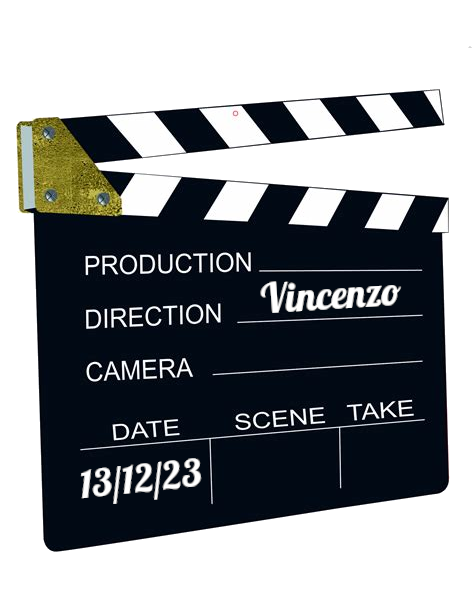
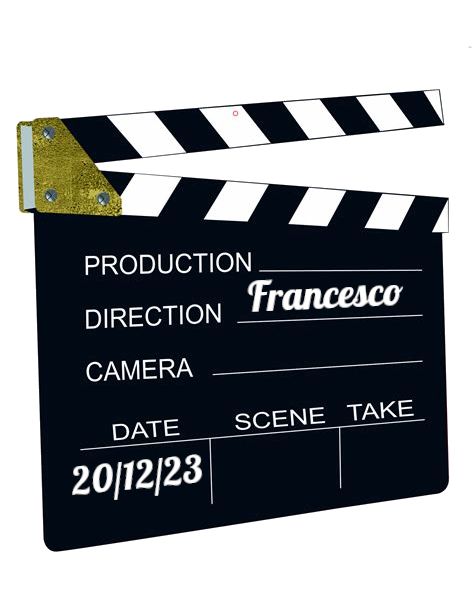
Murina

Changed region(s): [[0.5021, 0.4332, 0.8565, 0.5261], [0.1477, 0.7427, 0.443, 0.8355]]

diff --git a/index.html b/index.html
@@ -41,16 +41,25 @@
 <br /><br /><hr width="90%"><hr width="90%"><br /><br />
 
 
-<h1>Mercoled&igrave; 13 dicembre 2023</h1>
+<h1>Mercoled&igrave; 20 dicembre 2023</h1>
 <h2>Alle 20:30 in Via Nizza, 72</h2>
 
 <img src="img/ciak.png" class="locandina"/>
 
-<h2>Selezionatore: Vincenzo<i></i></h2>
+<h2>Selezionatore: Francesco<i></i></h2>
 
 
 <br /><br /><hr width="90%"><hr width="90%"><br /><br />
 
+
+<h1>Mercoled&igrave; 13 dicembre 2023</h1>
+<p class="mtitle">
+<a href="https://www.imdb.com/title/tt8434110" target="_blank">Murina</a>
+</p>
+<img src="https://image.tmdb.org/t/p/w500/8sgbPTMPLg5Tw1wWH1focDv81XZ.jpg" class="locandina"/>
+<h2>Selezionatore: <i>Vincenzo</i></h2>
+
+<br /><br /><hr width="90%"><br /><br />
 
 <h1>Mercoled&igrave; 6 dicembre 2023</h1>
 

diff --git a/movieslist.html b/movieslist.html
@@ -29,6 +29,17 @@ Rassegnamoci, Cineforum a Programma Variabile - Elenco Film
   </thead>
   <tbody>
     <tr>
+      <td>13-Dic-2023</td>
+      <td>Murina</td>
+      <td>Vincenzo</td>
+      <td>-</td>
+      <td>2022</td>
+      <td>Antoneta Alamat Kusijanović</td>
+      <td>92</td>
+      <td>BR; HR; SI; US</td>
+      <td><a href="https://www.imdb.com/title/tt8434110" target="_blank">https://www.imdb.com/title/tt8434110</a></td>
+    </tr>
+    <tr>
       <td>6-Dic-2023</td>
       <td>Is There Anybody Out There?</td>
       <td>Jolly</td>
